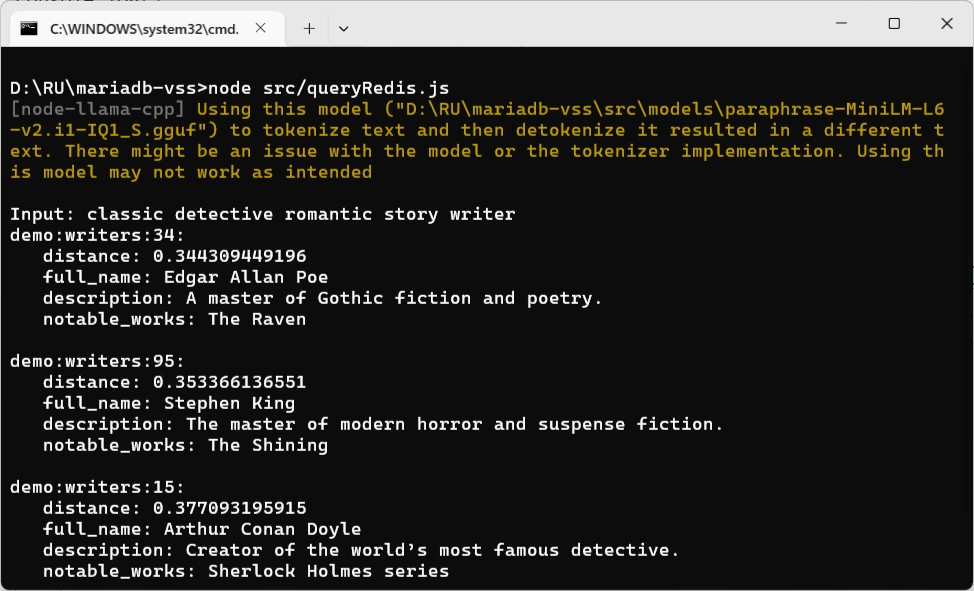
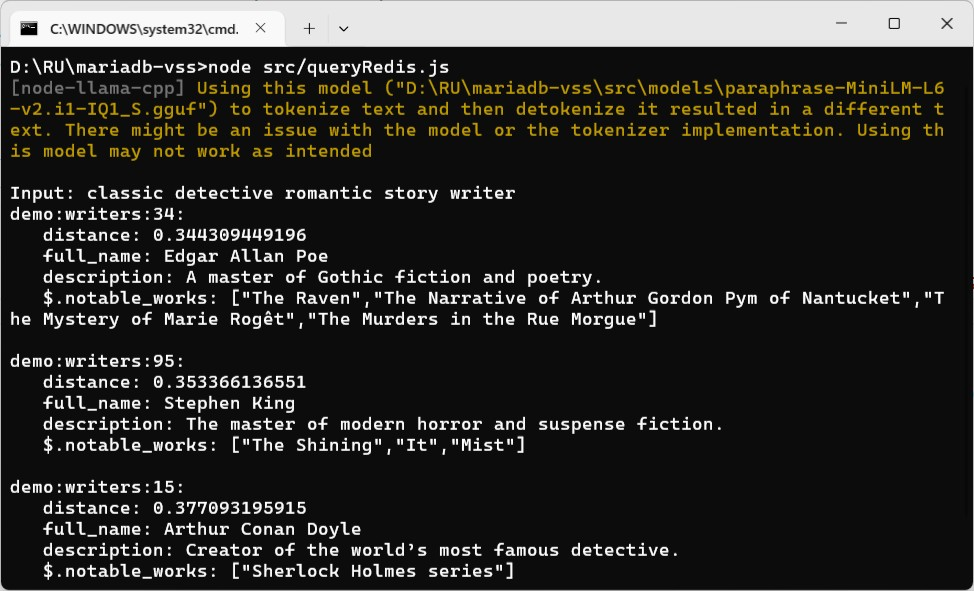
minor code fix

Changed region(s): [[0.0, 0.0914, 0.9856, 0.5482], [0.0308, 0.731, 0.5544, 0.7919], [0.0308, 0.9442, 0.5236, 1.0]]

diff --git a/src/queryRedis.js b/src/queryRedis.js
@@ -44,7 +44,7 @@ async function findSimilarDocuments(embedding, count = 3) {
     const result = await redisClient.call('FT.SEARCH', 
                                         'demo:writers:idx_vss', 
                                         `(*) => [KNN ${count} @embedding $BLOB AS distance]`, 
-                                        'RETURN', 5, 'distance', 'id', 'full_name', 'description', 'notable_works',  
+                                        'RETURN', 5, 'distance', 'id', 'full_name', 'description', '$.notable_works',  
                                         'SORTBY', 'distance', 'ASC', 
                                         'PARAMS', '2', 'BLOB', 
                                                         Buffer.from(Float32Array.from(vector).buffer),
